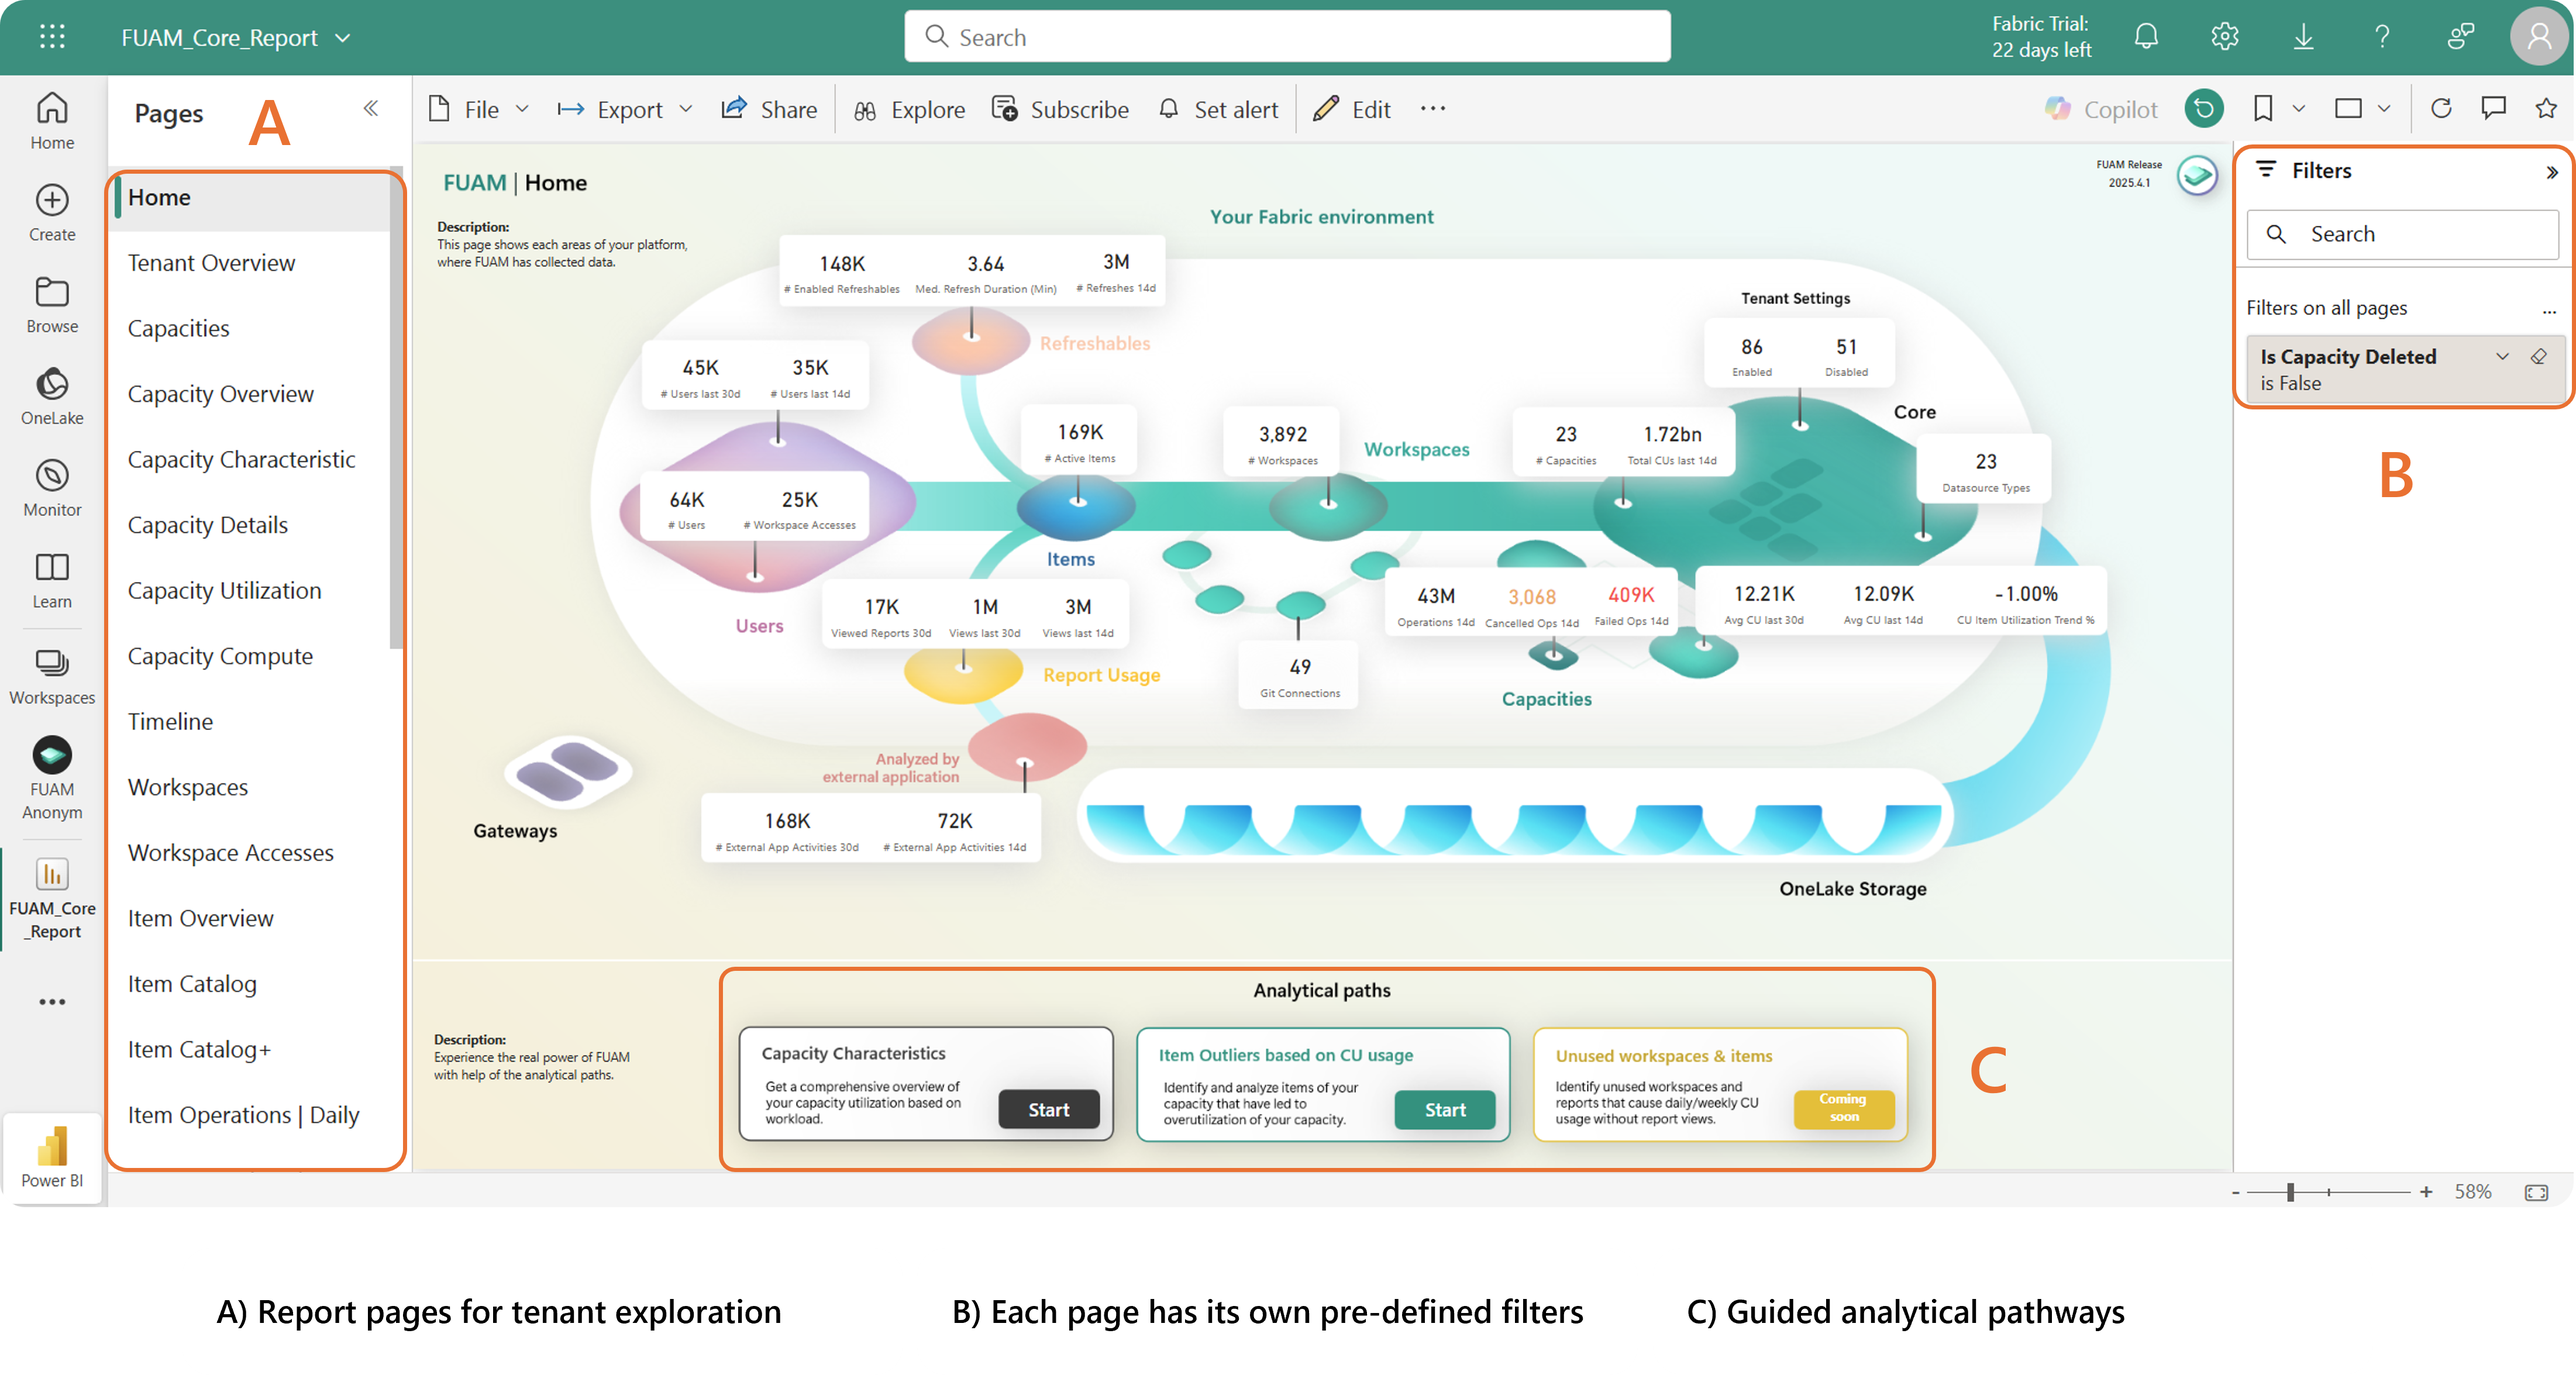
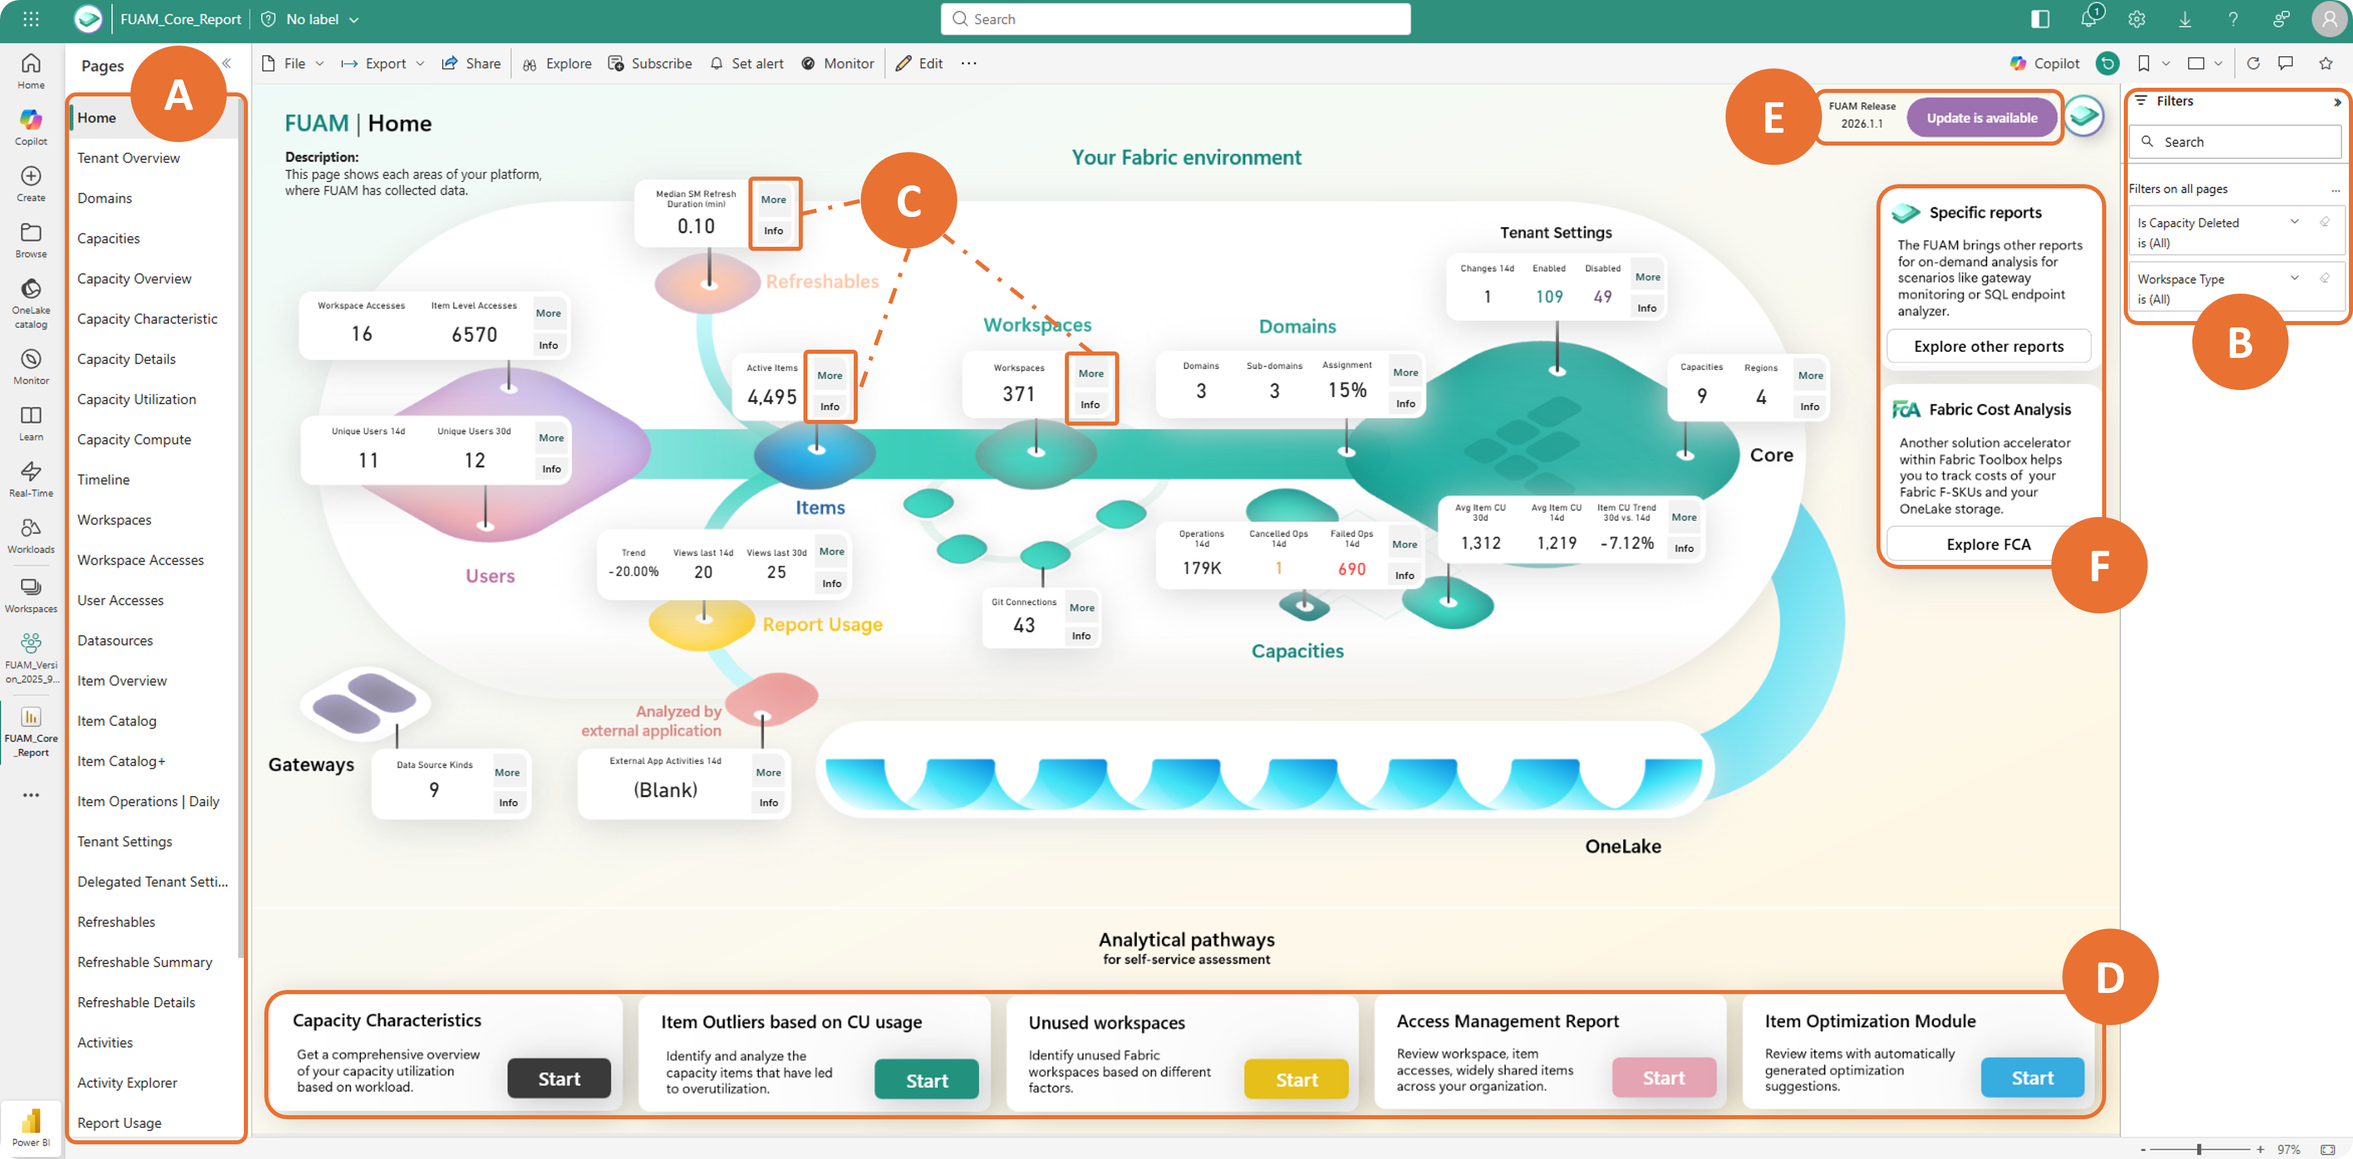
updated readme

diff --git a/monitoring/fabric-unified-admin-monitoring/README.md b/monitoring/fabric-unified-admin-monitoring/README.md
@@ -6,6 +6,9 @@
 
 [Want to get a brief introduction on FUAM? - Watch the video](https://youtu.be/CmHMOsQcMGI)
 
+> [!IMPORTANT]  
+> FUAM will support the Capacity Utilization Events mode in the future. This features takes Fabric monitoring to the next level by providing near-real time CU consumption.
+
 > [!CAUTION]  
 > The FUAM solution accelerator is not an official Microsoft product! It is a solution accelerator, which can help you implement a monitoring solution within Fabric. As such there is no offical support available and there is a risk that things might break. E.g. the extraction of Capacity Metrics data. This is based on the Capacity Metrics App and elements of that App could change without notice and impact FUAM.
 
@@ -71,6 +74,7 @@ Are you ready to try FUAM out? We have prepared two step-by-step guides to help 
 
 ## Changelog
 
+- **FUAM [Release 2026.1.1 (latest)](/monitoring/fabric-unified-admin-monitoring/changelog/FUAM_Changelog.md)**
 - **FUAM [Release 2025.9.1](/monitoring/fabric-unified-admin-monitoring/changelog/FUAM_Changelog.md)**
 
 ## Support

diff --git a/monitoring/fabric-unified-admin-monitoring/how-to/How_to_deploy_FUAM.md b/monitoring/fabric-unified-admin-monitoring/how-to/How_to_deploy_FUAM.md
@@ -183,6 +183,14 @@ The Pipeline has different parameters, which are controlling the data load flow:
 - Feel free to explore the report pages
    ![](/monitoring/fabric-unified-admin-monitoring/media/deployment/FUAM_basic_deployment_process_7_3.png)
 
+|Step|Description|
+|---|---|
+|A|On-demand report pages, each page is designed for a specific purpose.|
+|B||
+|C|Navigation action buttons **More** (navigates to given report page) and **Info** (navigates to github documentation).|
+|D||
+|E||
+|F||
 
 > **Error handling:** In case of errors like 'Visual can't be rendered', please check the 'Remark' section.
 
